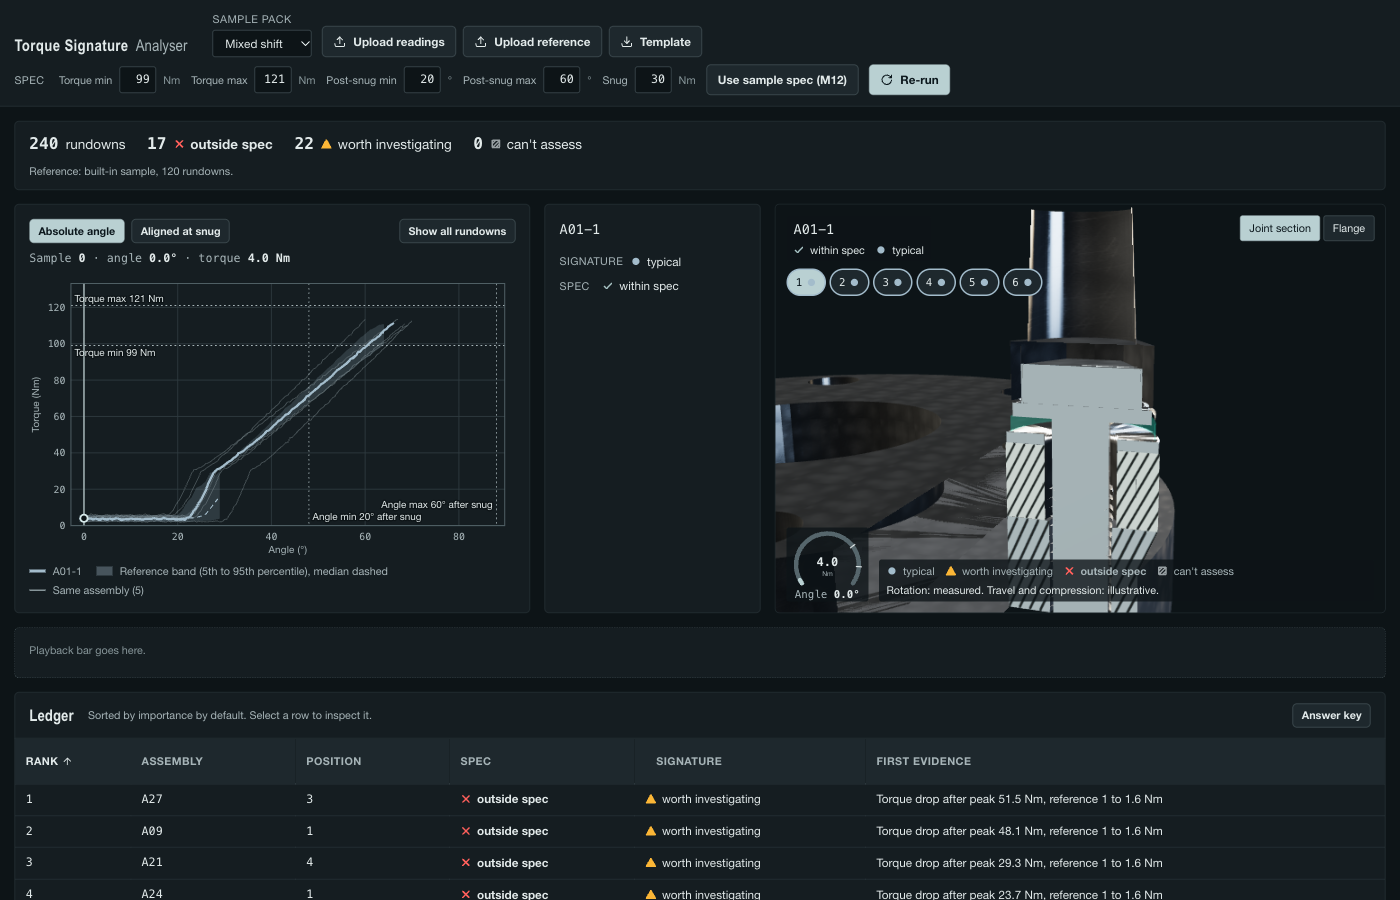
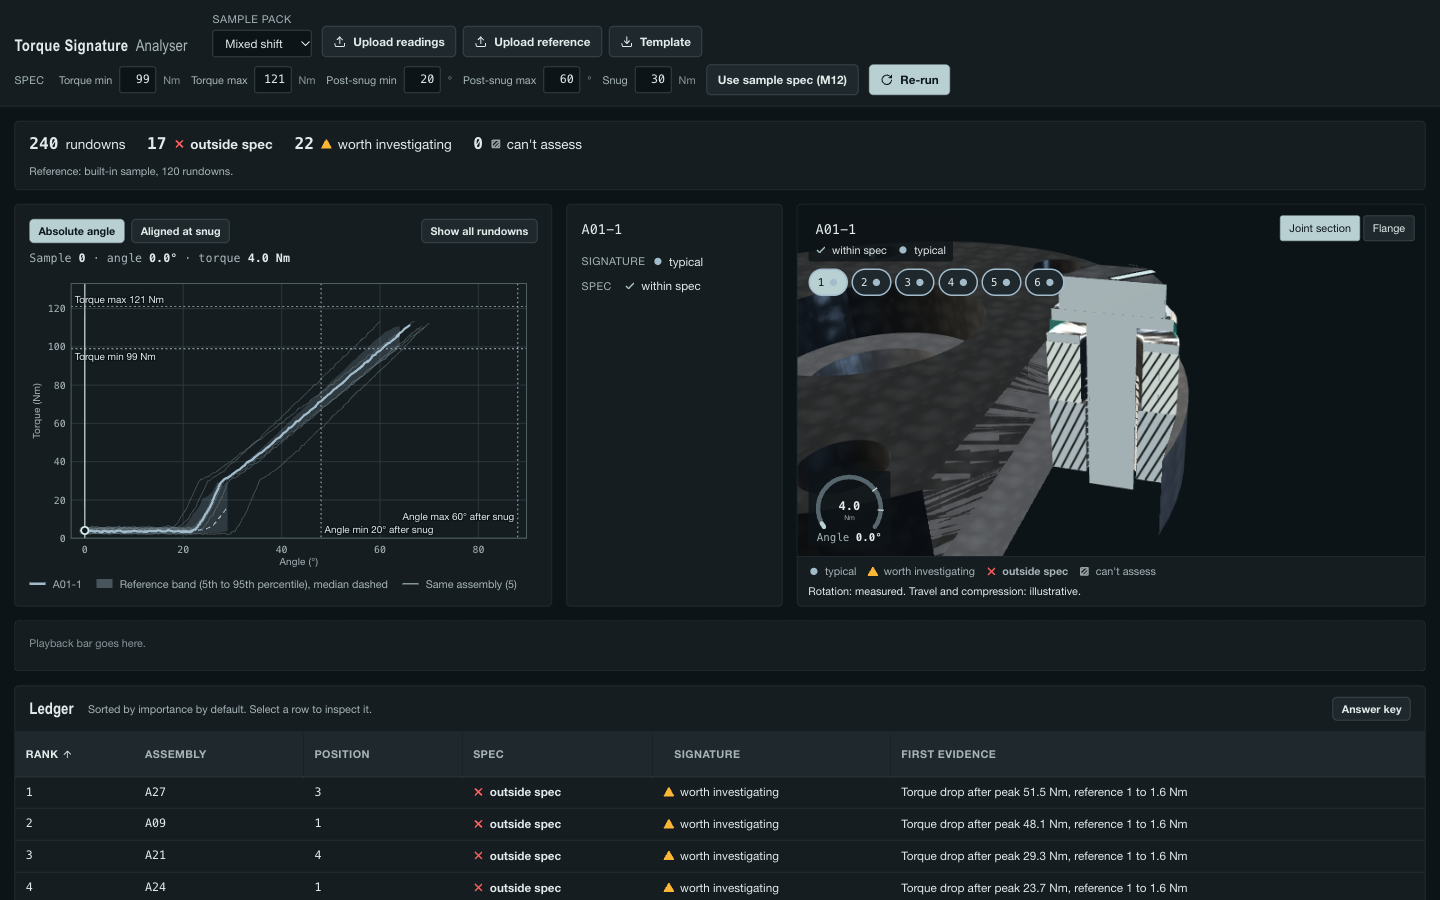
fix(torque): fit joint section framing, legend below canvas, visible index stripe

diff --git a/apps/torque-signature-analyser/web/src/scene/CameraRig.jsx b/apps/torque-signature-analyser/web/src/scene/CameraRig.jsx
@@ -4,16 +4,23 @@ import { OrbitControls } from '@react-three/drei';
 import * as THREE from 'three';
 import { slotAngle, slotPosition } from './Flange.jsx';
 
-export function presetPose(preset, focus) {
+const FOV = 32;
+// Joint-section stack, local y: bolt tip -0.7 up to ~30% of the (shortened) socket, with a 10% margin.
+const STACK = { bottom: -0.7, top: 5.6, width: 3.6 };
+
+export function presetPose(preset, focus, aspect = 1.5) {
   if (preset === 'section' && focus != null) {
     const a = slotAngle(focus);
     const P = slotPosition(focus);
     const R = new THREE.Vector3(Math.cos(a), 0, Math.sin(a));
     const T = new THREE.Vector3(-Math.sin(a), 0, Math.cos(a));
-    return {
-      target: P.clone().setY(3.9),
-      position: P.clone().addScaledVector(T, 11.5).addScaledVector(R, 3.4).setY(6.4),
-    };
+    const h = (STACK.top - STACK.bottom) * 1.1;
+    const half = Math.tan((FOV * Math.PI) / 360);
+    const dist = Math.max(h / (2 * half), (STACK.width * 1.2) / (2 * half * aspect)) * 1.06;
+    // Cut side towards the viewer, a little elevation and a slight side turn for a 3/4 read.
+    const dir = T.clone().addScaledVector(R, 0.25).setY(0.55).normalize();
+    const target = P.clone().setY((STACK.top + STACK.bottom) / 2);
+    return { target, position: target.clone().addScaledVector(dir, dist) };
   }
   if (focus != null) {
     // View from the cut side, aimed between the hub and the selected bolt so it sits inside the frame.
@@ -28,16 +35,20 @@ export function presetPose(preset, focus) {
 
 /** Bounded orbit (no pan, no auto-rotate) with preset moves. Orbiting never touches the cursor. */
 export default function CameraRig({ preset, focus, reducedMotion }) {
-  const { camera, invalidate } = useThree();
+  const { camera, invalidate, size } = useThree();
+  const aspect = size.width / Math.max(1, size.height);
+  const lastAspect = useRef(aspect);
   const controls = useRef();
   const anim = useRef(null);
   const first = useRef(true);
 
   useEffect(() => {
-    const to = presetPose(preset, focus);
+    const to = presetPose(preset, focus, aspect);
+    const resized = lastAspect.current !== aspect;
+    lastAspect.current = aspect;
     const c = controls.current;
     if (!c) return;
-    if (first.current || reducedMotion) {
+    if (first.current || reducedMotion || resized) {
       first.current = false;
       camera.position.copy(to.position);
       c.target.copy(to.target);
@@ -47,7 +58,7 @@ export default function CameraRig({ preset, focus, reducedMotion }) {
     }
     anim.current = { t: 0, fromPos: camera.position.clone(), fromTarget: c.target.clone(), to };
     invalidate();
-  }, [preset, focus, reducedMotion, camera, invalidate]);
+  }, [preset, focus, aspect, reducedMotion, camera, invalidate]);
 
   useFrame((_, dt) => {
     const a = anim.current;

diff --git a/apps/torque-signature-analyser/web/src/scene/Bolt.jsx b/apps/torque-signature-analyser/web/src/scene/Bolt.jsx
@@ -69,8 +69,8 @@ function socketGeometry(detail) {
     ring.rotateX(-Math.PI / 2);
     ring.translate(0, BOLT.flangeT + 0.04, 0);
     const seg = detail === 'full' ? 32 : 14;
-    const drive = new THREE.CylinderGeometry(0.85, 0.95, 2.2, seg, 1, true);
-    drive.translate(0, BOLT.flangeT + 0.04 + 1.05 + 1.1, 0);
+    const drive = new THREE.CylinderGeometry(0.85, 0.95, 1.2, seg, 1, true);
+    drive.translate(0, BOLT.flangeT + 0.04 + 1.05 + 0.6, 0);
     const lid = new THREE.CircleGeometry(0.95, seg);
     lid.rotateX(-Math.PI / 2);
     lid.translate(0, BOLT.flangeT + 0.04 + 1.05, 0);
@@ -135,18 +135,14 @@ export default function Bolt({ materials, status, rotation = 0, cut = false, det
         <mesh geometry={shank} material={zinc} />
         {thread && <mesh geometry={thread} material={zinc} />}
         {cut && (
-          <>
-            {/* Index marks: painted stripe across the hex top and a tick on the flange, so turning reads at a glance. */}
-            <mesh geometry={plane} material={materials.mark} position={[0.5, BOLT.flangeT + BOLT.hexH + 0.012, 0]} rotation={[-Math.PI / 2, 0, 0]} scale={[0.95, 0.14, 1]} />
+          <group rotation={[0, Math.PI / 4, 0]}>
+            {/* Index marks: bright stripe over the hex top and down the vertex edge, on a dark underlay, so turning reads in 3/4 view. */}
+            <mesh geometry={plane} material={materials.markBack} position={[0.5, BOLT.flangeT + BOLT.hexH + 0.011, 0]} rotation={[-Math.PI / 2, 0, 0]} scale={[1.0, 0.3, 1]} />
+            <mesh geometry={plane} material={materials.mark} position={[0.5, BOLT.flangeT + BOLT.hexH + 0.014, 0]} rotation={[-Math.PI / 2, 0, 0]} scale={[0.96, 0.17, 1]} />
+            <mesh geometry={plane} material={materials.markBack} position={[0.795, BOLT.flangeT + BOLT.hexH / 2 + 0.04, -0.459]} rotation={[0, (2 * Math.PI) / 3, 0]} scale={[0.36, BOLT.hexH, 1]} />
+            <mesh geometry={plane} material={materials.mark} position={[0.799, BOLT.flangeT + BOLT.hexH / 2 + 0.04, -0.461]} rotation={[0, (2 * Math.PI) / 3, 0]} scale={[0.2, BOLT.hexH, 1]} />
             <mesh geometry={plane} material={materials.mark} position={[1.17, BOLT.flangeT + 0.013, 0]} rotation={[-Math.PI / 2, 0, 0]} scale={[0.2, 0.1, 1]} />
-          </>
-        )}
-        {sock && (
-          <>
-            <mesh geometry={sock.ring} material={materials.socket} />
-            <mesh geometry={sock.drive} material={materials.socket} />
-            <mesh geometry={sock.lid} material={materials.socket} />
-          </>
+          </group>
         )}
       </group>
       <mesh geometry={ringGeo()} material={ring} position={[0, BOLT.flangeT + 0.012, 0]} rotation={[Math.PI / 2, 0, 0]} />

diff --git a/apps/torque-signature-analyser/web/src/scene/materials.js b/apps/torque-signature-analyser/web/src/scene/materials.js
@@ -112,7 +112,8 @@ export function createMaterials(cut) {
   const edge = new THREE.MeshBasicMaterial({ color: tokenColor('--color-motion', '#3df5d2'), toneMapped: false, transparent: true, opacity: 0.9, clippingPlanes: single });
 
   const gapMat = new THREE.MeshBasicMaterial({ color: tokenColor('--color-motion', '#3df5d2'), transparent: true, opacity: 0.3, depthWrite: false, side: THREE.DoubleSide, toneMapped: false, clippingPlanes: single });
-  const mark = new THREE.MeshBasicMaterial({ color: tokenColor('--color-text', '#eee'), toneMapped: false, clippingPlanes: single });
+  const mark = new THREE.MeshBasicMaterial({ color: tokenColor('--color-alu-strong', '#fff'), toneMapped: false, side: THREE.DoubleSide, clippingPlanes: single });
+  const markBack = new THREE.MeshBasicMaterial({ color: tokenColor('--color-paper', '#111'), toneMapped: false, side: THREE.DoubleSide, clippingPlanes: single });
   const status = {
     typical: tokenColor('--color-steel', '#99a'),
     investigate: tokenColor('--color-amber', '#e0a030'),
@@ -123,6 +124,6 @@ export function createMaterials(cut) {
   const ringCut = Object.fromEntries(Object.entries(ring).map(([k, m]) => { const c = m.clone(); c.clippingPlanes = single; return [k, c]; }));
   const motion = tokenColor('--color-motion', '#3df5d2');
 
-  const all = [zinc, zincFree, washer, washerFree, socket, plateTop, plateBase, hub, capTop, capBase, capBolt, edge, gapMat, mark, ...Object.values(ring), ...Object.values(ringCut)];
-  return { zinc, zincFree, washer, washerFree, socket, plateTop, plateBase, hub, capTop, capBase, capBolt, edge, gapMat, mark, ring, ringCut, motion, dispose: () => all.forEach((m) => m.dispose()) };
+  const all = [zinc, zincFree, washer, washerFree, socket, plateTop, plateBase, hub, capTop, capBase, capBolt, edge, gapMat, mark, markBack, ...Object.values(ring), ...Object.values(ringCut)];
+  return { zinc, zincFree, washer, washerFree, socket, plateTop, plateBase, hub, capTop, capBase, capBolt, edge, gapMat, mark, markBack, ring, ringCut, motion, dispose: () => all.forEach((m) => m.dispose()) };
 }

diff --git a/apps/torque-signature-analyser/web/src/scene/Overlay.jsx b/apps/torque-signature-analyser/web/src/scene/Overlay.jsx
@@ -30,6 +30,20 @@ function Gauge({ torque, max, spec }) {
   );
 }
 
+/** Status legend and the illustrative-motion caption. Rendered below the canvas, never over the joint. */
+export function JointStrip() {
+  return (
+    <div className="joint-strip">
+      <ul className="joint-legend" aria-label="Head ring colours">
+        {KINDS.map((k) => (
+          <li key={k}><StatusMark kind={k} /></li>
+        ))}
+      </ul>
+      <p className="joint-caption">Rotation: measured. Travel and compression: illustrative.</p>
+    </div>
+  );
+}
+
 export default function Overlay({ selected, pose, torqueMax, spec, preset, onPreset, slots, selectedId, onSelect, note }) {
   return (
     <div className="joint-overlay">
@@ -68,14 +82,6 @@ export default function Overlay({ selected, pose, torqueMax, spec, preset, onPre
         <div className="joint-gauge">
           <Gauge torque={pose.torque} max={torqueMax} spec={spec} />
           <p className="joint-angle mono">Angle <b>{pose.angle.toFixed(1)}°</b></p>
-        </div>
-        <div className="joint-legend-wrap">
-          <ul className="joint-legend" aria-label="Head ring colours">
-            {KINDS.map((k) => (
-              <li key={k}><StatusMark kind={k} /></li>
-            ))}
-          </ul>
-          <p className="joint-caption">Rotation: measured. Travel and compression: illustrative.</p>
         </div>
       </div>
     </div>

diff --git a/apps/torque-signature-analyser/web/src/app.css b/apps/torque-signature-analyser/web/src/app.css
@@ -202,7 +202,10 @@ button, input, select { font: inherit; color: inherit; }
 
 /* 3D joint (Task 8) */
 .slot-3d { padding: 0; position: relative; overflow: hidden; border-style: solid; border-color: var(--color-rule); }
-.joint { position: relative; width: 100%; height: 100%; min-height: 26rem; }
+.slot-3d { display: flex; flex-direction: column; }
+.joint-wrap { display: flex; flex-direction: column; flex: 1; min-height: 0; }
+.joint { position: relative; width: 100%; flex: 1; min-height: 24rem; }
+.joint-strip { display: grid; gap: var(--space-2xs); padding: var(--space-xs) var(--space-sm); border-top: 1px solid var(--color-rule); }
 .joint canvas { display: block; touch-action: none; }
 .joint-overlay { position: absolute; inset: 0; pointer-events: none; display: flex; flex-direction: column; justify-content: space-between; padding: var(--space-sm); gap: var(--space-xs); }
 .joint-overlay > * { pointer-events: none; }
@@ -246,3 +249,6 @@ button, input, select { font: inherit; color: inherit; }
 .joint-legend .status-label { font-size: var(--text-xs); color: var(--color-muted); }
 .gauge { width: 5.2rem; }
 .joint-gauge { padding: 0 var(--space-2xs); }
+
+.joint-strip .joint-legend { margin: 0; }
+.joint-bottom { justify-content: flex-start; }

diff --git a/apps/torque-signature-analyser/web/src/scene/JointScene.jsx b/apps/torque-signature-analyser/web/src/scene/JointScene.jsx
@@ -5,7 +5,7 @@ import * as THREE from 'three';
 import Bolt, { Washer, WASHER } from './Bolt.jsx';
 import Flange, { FLANGE, slotAngle, slotPosition } from './Flange.jsx';
 import CameraRig from './CameraRig.jsx';
-import Overlay from './Overlay.jsx';
+import Overlay, { JointStrip } from './Overlay.jsx';
 import { createMaterials, tokenColor } from './materials.js';
 import { boltSlots, jointPose, statusKind } from './kinematics.js';
 
@@ -161,6 +161,7 @@ function JointView({ result, selected, cursor, onSelect }) {
   const note = selected && focus == null ? `${selected.id} is not drawn: it repeats a bolt position or the assembly has more than six bolts. Use the ledger.` : null;
 
   return (
+    <div className="joint-wrap">
     <div className="joint" ref={box}>
       <Canvas
         dpr={[1, 2]}
@@ -193,6 +194,8 @@ function JointView({ result, selected, cursor, onSelect }) {
         onSelect={onSelect}
         note={note ?? (overflow.length ? `${overflow.length} extra bolt(s) in this assembly are not drawn. Use the ledger.` : null)}
       />
+    </div>
+    <JointStrip />
     </div>
   );
 }
